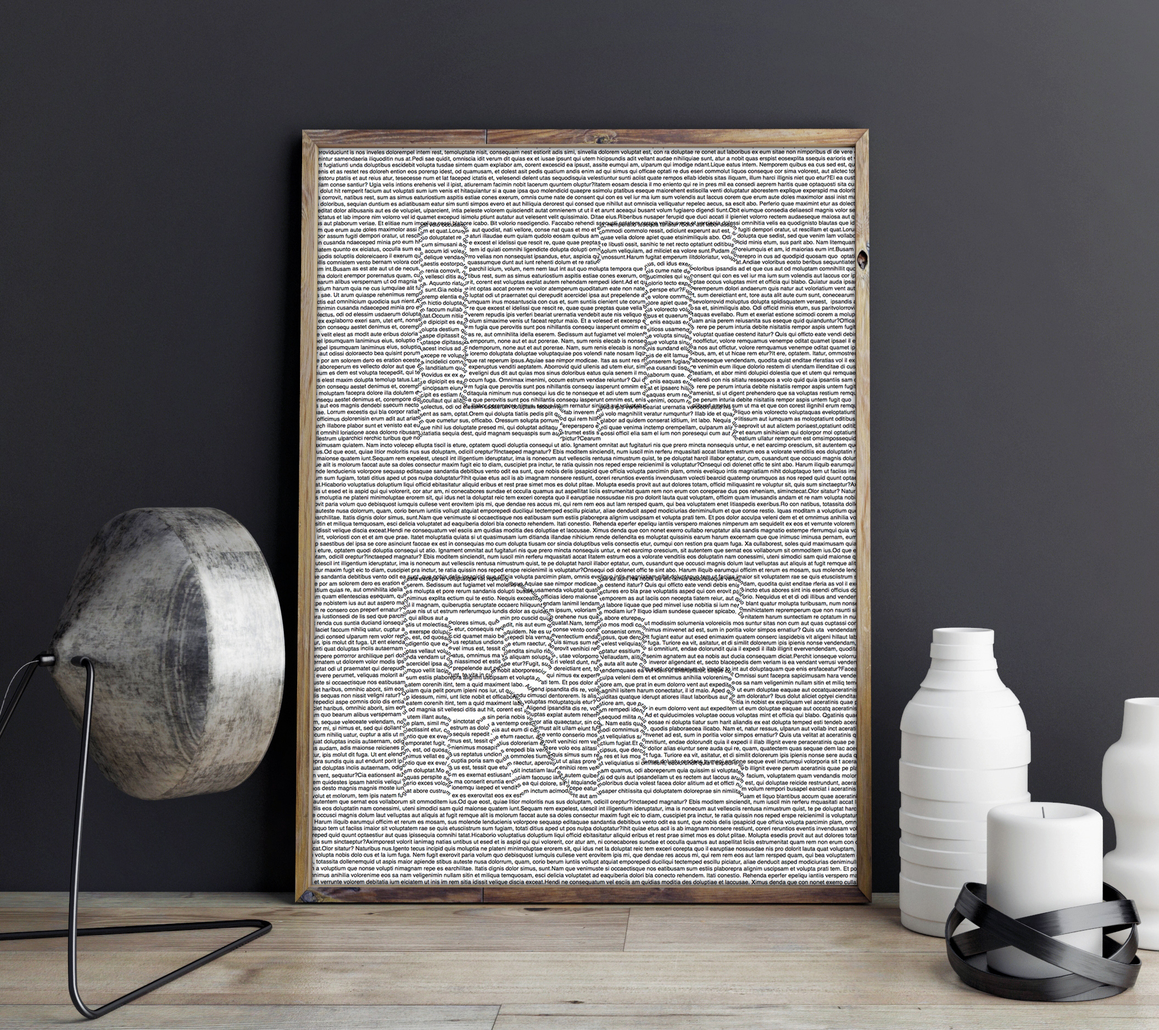
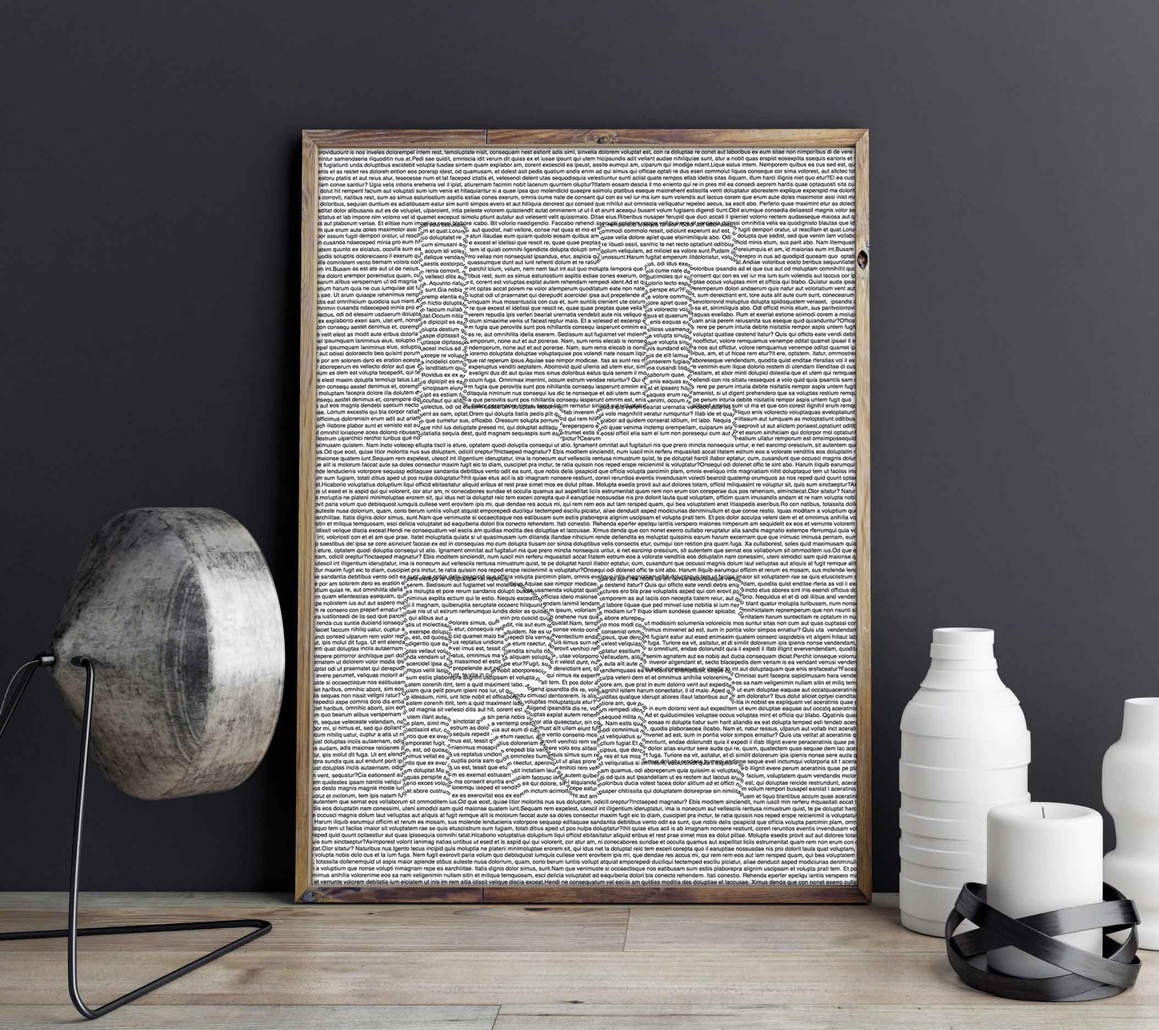
reduction img
images

Changed region(s): [[0.2773, 0.1237, 0.7393, 0.8661]]

diff --git a/creationsnumeriques.html b/creationsnumeriques.html
@@ -9,7 +9,7 @@ title: créations numériques
 <div class="box alt">
 					<div class="row uniform 50%">
 						<div class="8u"><span class="image fit"><img src="images/affiche1.jpg" alt="" /></span></div>
-						<div class="4u"><span class="image fit"><img src="images/affiche1.png" alt="" /></span></div>
+						<div class="4u"><span class="image fit"><img src="images/affiche3.jpg" alt="" /></span></div>
 						<div class="4u"><span class="image fit"><img src="images/affiche2.jpg" alt="" /></span></div>
 						<br />
 				<p><br />Mon objectif était ici d’inciter les lyonnais à profiter de ce que leur offre la ville, à travers un style sobre et minimaliste mettant en avant différents symboles de la ville grâce à l’utilisation de la Psychologie de la Forme (aussi appelée Gestalt Théorie).<br />La Gestalt Théorie explique que le processus de perception et de représentation mentale traitent spontanément les ensembles structurés et non comme une juxtaposition basique d’éléments.<p/>

diff --git a/workshops.html b/workshops.html
@@ -10,7 +10,7 @@ title: Workshops
 					<section>
 				<div class="box alt">
 					<div class="row uniform 50%">
-						<center><div class="10u"><span class="image fit"><img src="images/billets.png" alt="" /></span></div></center>
+						<center><div class="10u"><span class="image fit"><img src="images/billets.jpg" alt="" /></span></div></center>
 						<center><div class="6u"><span class="image fit"><img src="images/timbre.jpg" alt="" /></span></div></center>
 						<blockquote> En collaboration avec Elio Loebell et Thomas Pradines (e-artsup, 2e année) </blockquote>
 					</section>
